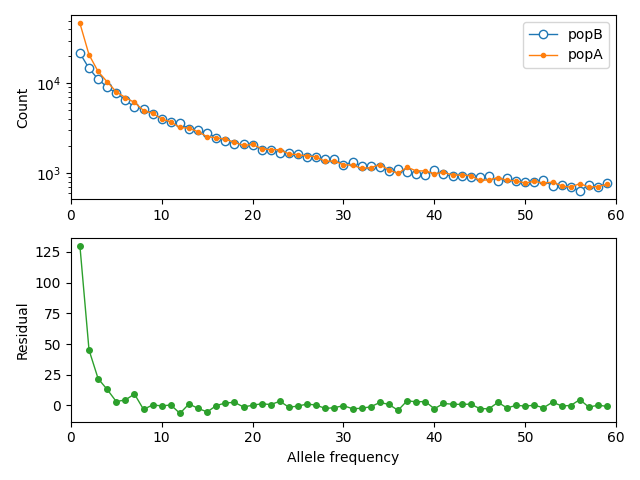
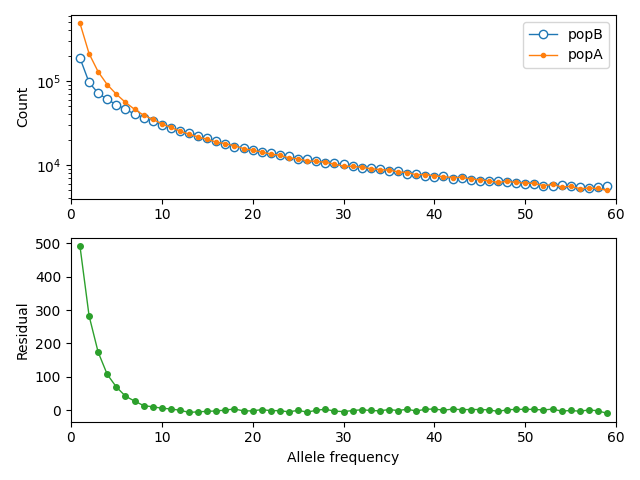
changes to example 1

diff --git a/example1/simulate_data.py b/example1/simulate_data.py
@@ -1,0 +1,73 @@
+import demes
+import msprime
+import numpy as np
+import moments
+import pickle
+import gzip
+
+_pop_ids = ["popA", "popB"]
+
+def run_sims():
+    """
+    Returns a list of frequency spectra, over some number of replicates.
+    """
+    g = demes.load("model.yaml")
+
+    # sample sizes of 30 diploids from each population
+    n = 30
+    sample_sets = [msprime.SampleSet(n, _pop_ids[0]), msprime.SampleSet(n, _pop_ids[1])]
+    demog = msprime.Demography.from_demes(g)
+
+    # simulate 500 1Mb regions
+    L = 1e6
+    u = 1e-8
+    r = 1e-8
+    num_reps = 500
+
+    tss = msprime.sim_ancestry(
+        samples=sample_sets,
+        demography=demog,
+        sequence_length=L,
+        recombination_rate=r,
+        num_replicates=num_reps,
+        random_seed=42,
+    )
+
+    # get list of replicate spectra
+    spectra = np.zeros((num_reps, 2*n+1, 2*n+1))
+    for i, ts in enumerate(tss):
+        mts = msprime.sim_mutations(ts, rate=u, random_seed=i+13)
+        fs_rep = mts.allele_frequency_spectrum(
+            sample_sets=[range(2*n), range(2*n, 4*n)],
+            polarised=True,
+            span_normalise=False
+        )
+        spectra[i] = fs_rep
+    return spectra
+
+
+def bootstrap_spectra(spectra):
+    """
+    TODO: complete this docstring
+    """
+    num_reps = len(spectra)
+    bs_spectra = []
+    for _ in range(num_reps):
+        choices = np.random.choice(num_reps, num_reps, replace=True)
+        fs_rep = np.sum(spectra[choices], axis=0)
+        bs_spectra.append(moments.Spectrum(fs_rep, pop_ids=_pop_ids))
+    return bs_spectra
+
+
+def main():
+    spectra = run_sims()
+    fs = np.sum(spectra, axis=0)
+    fs = moments.Spectrum(fs, pop_ids=_pop_ids)
+    fs.tofile("data/data.fs")
+
+    bs_spectra = bootstrap_spectra(spectra)
+    with gzip.open("data/bootstrapped_data.pkl.gz", "wb+") as fout:
+        pickle.dump(bs_spectra, fout)
+
+if __name__ == "__main__":
+    main()

diff --git a/example1/fit_misspec_model.py b/example1/fit_misspec_model.py
@@ -1,0 +1,46 @@
+import moments
+import gzip
+import pickle
+
+# Load the data
+data = moments.Spectrum.from_file("data/data.fs")
+
+# Specify model paths
+g_in = "model.misspec.yaml"
+options = "model.misspec.options.yaml"
+g_out = "model.misspec.out.yaml"
+
+# Parameters from simulated data
+u = 1e-8
+num_reps = 500
+L = 1e6
+U = u * L * num_reps
+
+
+# Run fit
+moments.Demes.Inference.optimize(
+    g_in,
+    options,
+    data,
+    verbose=1,
+    method="fmin",
+    perturb=1,
+    uL=U,
+    output=g_out,
+    overwrite=True
+)
+
+# Compute CIs
+with gzip.open("data/bootstrapped_data.pkl.gz", "rb") as fin:
+    bs_data = pickle.load(fin)
+
+moments.Demes.Inference.uncerts(
+    g_out,
+    options,
+    fs,
+    bootstraps=bs_data,
+    uL=U,
+    bootstraps_uL=[U] * len(bs_data),
+    verbose=1,
+    method="GIM",
+)

diff --git a/example1/plot_misspec_model.py b/example1/plot_misspec_model.py
@@ -1,0 +1,25 @@
+import demes, demesdraw
+import matplotlib.pylab as plt
+import numpy as np
+
+g = demes.load("model.yaml")
+g2 = demes.load("model.misspec.out.yaml")
+
+fig = plt.figure(figsize=(10, 4))
+ax1 = plt.subplot(1, 2, 1)
+ax2 = plt.subplot(1, 2, 2)
+
+demesdraw.tubes(g, ax=ax1)
+demesdraw.tubes(g2, ax=ax2, inf_ratio=0.55)
+
+w = ax1.get_xlim()[1] - ax1.get_xlim()[0]
+m2 = np.mean(ax2.get_xlim())
+ax2.set_xlim((m2 - w/2, m2 + w/2))
+ax2.set_ylim(top=ax1.get_ylim()[1])
+
+ax1.set_title("Simulated model")
+ax2.set_title("Inferred model")
+
+fig.tight_layout()
+fig.savefig("model.misspec.fit.png")
+plt.show()

diff --git a/example1/README.md b/example1/README.md
@@ -8,34 +8,32 @@ the descendent populations change sizes over time and exchange migrants.
 
 The input model ([model.yaml](model.yaml)):
 ```YAML
-description: split-with-migration model for a taxon with an average age of reproduction of three
-generation_time: 3
+description: split-with-migration model, loosely based on a human history (see example 2)
+generation_time: 29
 time_units: years
 demes:
 - name: ancestral
   epochs:
-  - {start_size: 5000, end_time: 2500}
-  - {start_size: 8000, end_time: 1200}
+  - {start_size: 15000, end_time: 300000}
+  - {start_size: 25000, end_time: 75000}
 - name: popA
   ancestors: [ancestral]
   epochs:
-  - {start_size: 2000, end_size: 10000}
+  - {start_size: 30000}
 - name: popB
   ancestors: [ancestral]
   epochs:
-  - {start_size: 6000, end_size: 1000}
+  - {start_size: 1200, end_size: 14000}
 migrations:
-- source: popA
-  dest: popB
-  rate: 1e-4
-- source: popB
-  dest: popA
-  rate: 3e-4
+- demes: [popA, popB]
+  rate: 5e-5
 ```
 
 Using the following to load and plot the model:
 ```python
 import demes, demesdraw, matplotlib.pylab as plt
+import moments
+
 g = demes.load("model.yaml")
 fig = plt.figure(figsize=(5, 4))
 ax = plt.subplot(1, 1, 1)
@@ -49,8 +47,9 @@ fig.savefig("model.png")
 ### Simulating data with msprime
 
 Sample 30 individuals from each population A and B.
-We'll simulate 100 1M sequences, aggregating across replicates
+We'll simulate 500 1Mb sequences, aggregating across replicates
 to construct the SFS.
+[TODO: update with finalized code from simulate_data.py script!]
 ```python
 import msprime
 import numpy as np
@@ -86,14 +85,12 @@ for i, ts in enumerate(tss):
     spectra.append(fs_rep)
 
 fs = np.sum(spectra, axis=0)
+
+fs = moments.Spectrum(fs, pop_ids=["popA", "popB"])
 ```
 
 Visualize the marginal spectra
 ```python
-import moments
-
-fs = moments.Spectrum(fs, pop_ids=["popA", "popB"])
-
 moments.Plotting.plot_1d_comp_Poisson(
     fs.marginalize([1]),
     fs.marginalize([0]),
@@ -110,30 +107,31 @@ By running `fs.Fst()`, we find an FST value of between around 0.065 to 0.07.
 We'll first fit a simpler (misspecified) model that doesn't allow for
 size changes within populations, and assumes a symmetric migration rate.
 
-Our initial model guess is given by [test1.yaml](test1.yaml):
+Our initial model guess is given by [model.misspec.yaml](model.misspec.yaml):
 ```YAML
 description: split-with-migration model, with constant sizes and symmetric migration
-generation_time: 3
+generation_time: 29
 time_units: years
 demes:
 - name: ancestral
   epochs:
-  - {start_size: 5000, end_time: 1500}
+  - {start_size: 10000, end_time: 100000}
 - name: popA
   ancestors: [ancestral]
   epochs:
-  - {start_size: 5000}
+  - {start_size: 20000}
 - name: popB
   ancestors: [ancestral]
   epochs:
-  - {start_size: 5000}
+  - {start_size: 20000}
 migrations:
 - demes: [popA, popB]
   rate: 1e-4
 ```
 
 To run inference using `moments.Demes.Inference`, we also need the parameters
-options file, which may be defined in [test1.options.yaml](test1.options.yaml).
+options file, which may be defined in
+[model.misspec.options.yaml](model.misspec.options.yaml).
 In this file, we specify which parameters to optimize, which values in the
 Demes-specified model to fit, and impose any bounds on those parameters:
 ```YAML
@@ -145,7 +143,7 @@ parameters:
         epochs:
           0: start_size
   lower_bound: 500
-  upper_bound: 50000
+  upper_bound: 500000
 - name: NA
   values:
   - demes:
@@ -153,7 +151,7 @@ parameters:
         epochs:
           0: start_size
   lower_bound: 500
-  upper_bound: 50000
+  upper_bound: 500000
 - name: NB
   values:
   - demes:
@@ -161,7 +159,7 @@ parameters:
         epochs:
           0: start_size
   lower_bound: 500
-  upper_bound: 50000
+  upper_bound: 500000
 - name: T
   values:
   - demes:
@@ -169,7 +167,7 @@ parameters:
         epochs:
           0: end_time
   lower_bound: 0
-  upper_bound: 50000
+  upper_bound: 500000
 - name: m
   values:
   - migrations:
@@ -180,20 +178,35 @@ parameters:
 
 Optimization then can be performed as below:
 ```python
-# The total mutation rate
+# Load the data
+data = moments.Spectrum.from_file("data/data.fs")
+
+# Specify model paths
+g_in = "model.misspec.yaml"
+options = "model.misspec.options.yaml"
+g_out = "model.misspec.out.yaml"
+
+# Parameters from simulated data
+u = 1e-8
+num_reps = 500
+L = 1e6
 U = u * L * num_reps
-# Run the optimization
+
+
+# Run fit
 moments.Demes.Inference.optimize(
-    "test1.yaml",
-    "test1.options.yaml",
-    fs,
+    g_in,
+    options,
+    data,
+    verbose=1,
     method="fmin",
     perturb=1,
     uL=U,
-    output="test1.fit.yaml"
+    output=g_out,
+    overwrite=True
 )
 ```
 
-The output optimized demes model is stored in [test1.fit.yaml](test1.fit.yaml).
+The output optimized demes model is stored in [model.misspec.out.yaml](model.misspec.out.yaml).
 Visualizing this fit:
-![test1.fit.png](test1.fit.png)
+![model.misspec.fit.png](model.misspec.fit.png)
